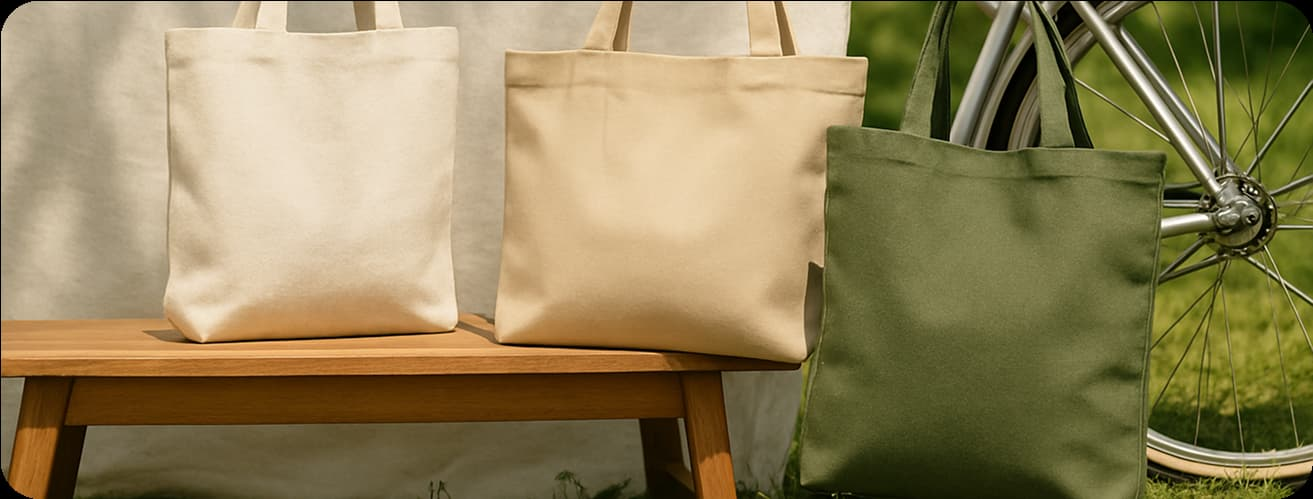
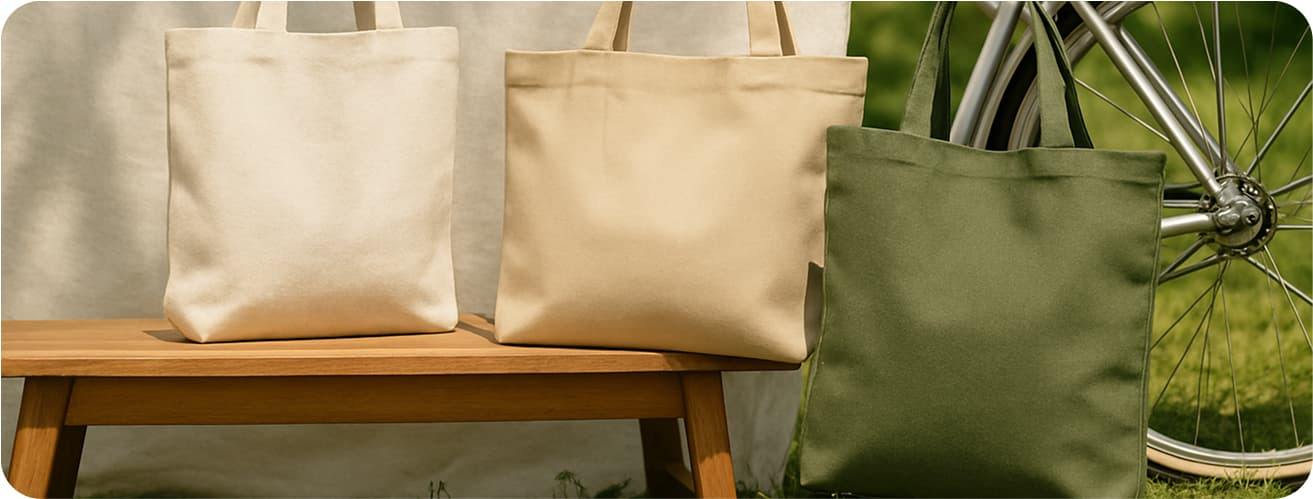
Fix images

diff --git a/src/partials/hero.html b/src/partials/hero.html
@@ -1,33 +1,52 @@
-<section class="hero-section">
-  <div class="container">
-    <div class="hero-text-container">
-      <h1 class="hero-title">EcoTote — Стиль, що не шкодить планеті.</h1>
-      <div class="hero-text-wrapper">
-        <p class="hero-text">
-          Екологічні сумки для тих, хто дбає про майбутнє. Обирайте стиль та
-          відповідальність разом з EcoTote.
-        </p>
+<!DOCTYPE html>
+<html lang="en">
+  <head>
+    <meta charset="UTF-8" />
+    <meta name="viewport" content="width=device-width, initial-scale=1.0" />
+    <title>Document</title>
+  </head>
+  <body>
+    <section class="hero-section">
+      <div class="container">
+        <div class="hero-text-container">
+          <h1 class="hero-title">EcoTote — Стиль, що не шкодить планеті.</h1>
+          <div class="hero-text-wrapper">
+            <p class="hero-text">
+              Екологічні сумки для тих, хто дбає про майбутнє. Обирайте стиль та
+              відповідальність разом з EcoTote.
+            </p>
 
-        <a class="hero-button" href="#assortment">Купити зараз</a>
+            <a class="hero-button" href="#assortment">Купити зараз</a>
+          </div>
+        </div>
+        <picture>
+          <!-- Desktop screen -->
+          <source
+            media="(min-width: 1440px)"
+            srcset="
+              /img/hero/hero-desctop.jpg    1x,
+              /img/hero/hero-desctop@2x.jpg 2x
+            "
+          />
+          <!-- Tablet screen -->
+          <source
+            media="(min-width: 768px)"
+            srcset="
+              /img/hero/hero-tablet.jpg    1x,
+              /img/hero/hero-tablet@2x.jpg 2x
+            "
+          />
+          <!-- Mobile screen -->
+          <source
+            media="(max-width: 767px)"
+            srcset="
+              /img/hero/hero-mobile.jpg    1x,
+              /img/hero/hero-mobile@2x.jpg 2x
+            "
+          />
+          <img src="/img/hero/hero-mobile.jpg" alt="bags" />
+        </picture>
       </div>
-    </div>
-    <picture>
-      <!-- Desktop screen -->
-      <source
-        media="(min-width: 1440px)"
-        srcset="/img/hero/hero-desctop.jpg 1x, /img/hero/hero-desctop@2x.jpg 2x"
-      />
-      <!-- Tablet screen -->
-      <source
-        media="(min-width: 768px)"
-        srcset="/img/hero/hero-tablet.jpg 1x, /img/hero/hero-tablet@2x.jpg 2x"
-      />
-      <!-- Mobile screen -->
-      <source
-        media="(max-width: 767px)"
-        srcset="/img/hero/hero-mobile.jpg 1x, /img/hero/hero-mobile@2x.jpg 2x"
-      />
-      <img src="/img/hero/hero-mobile.jpg" alt="bags" />
-    </picture>
-  </div>
-</section>
+    </section>
+  </body>
+</html>

diff --git a/src/css/hero.css b/src/css/hero.css
@@ -32,6 +32,10 @@
 .hero-button:hover {
   opacity: 0.5;
 }
+.hero-section img {
+  border-radius: 40px;
+  border: none;
+}
 
 /* Styles for mobile only */
 @media only screen and (max-width: 768px) {
